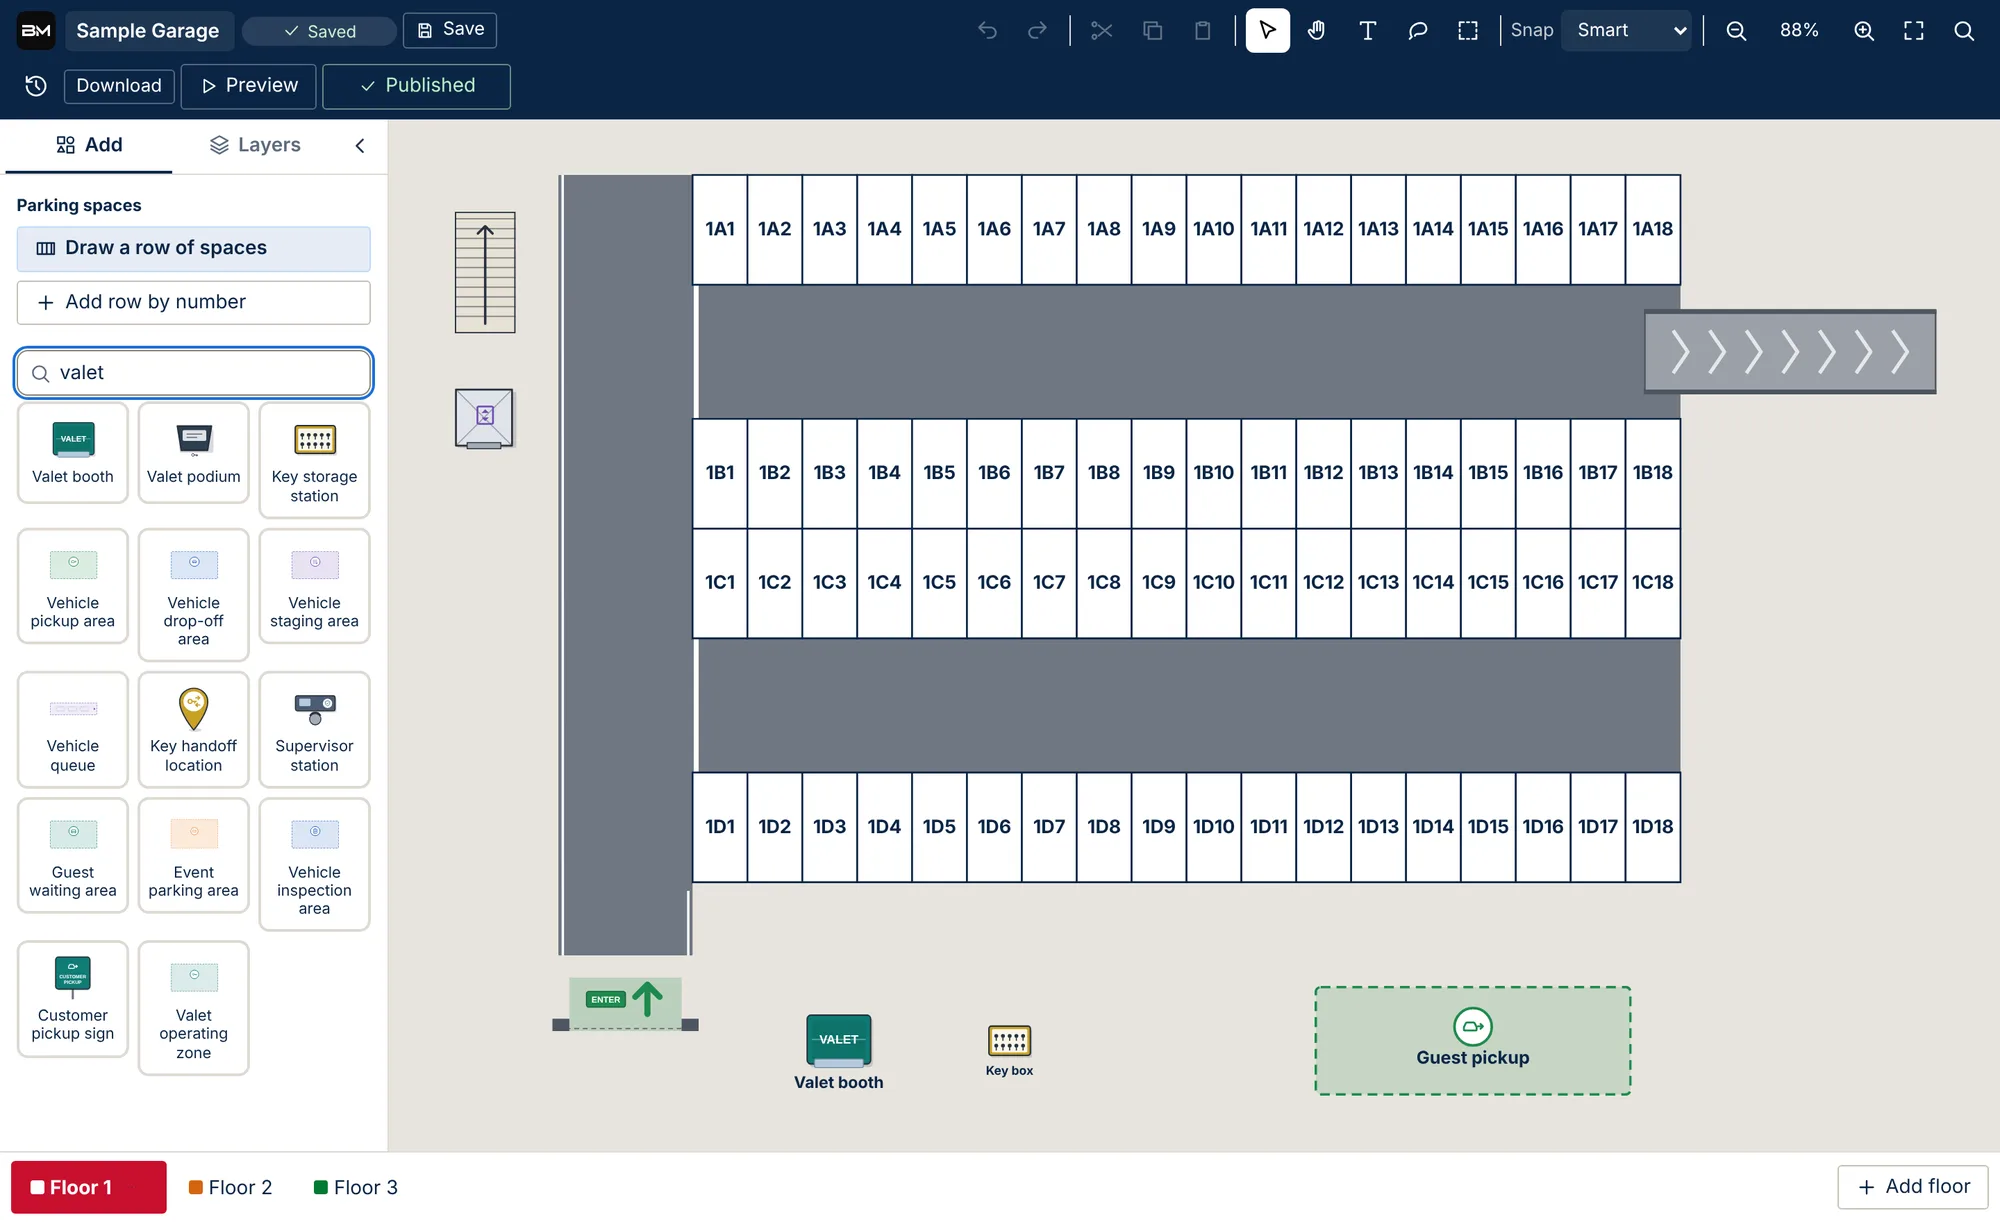
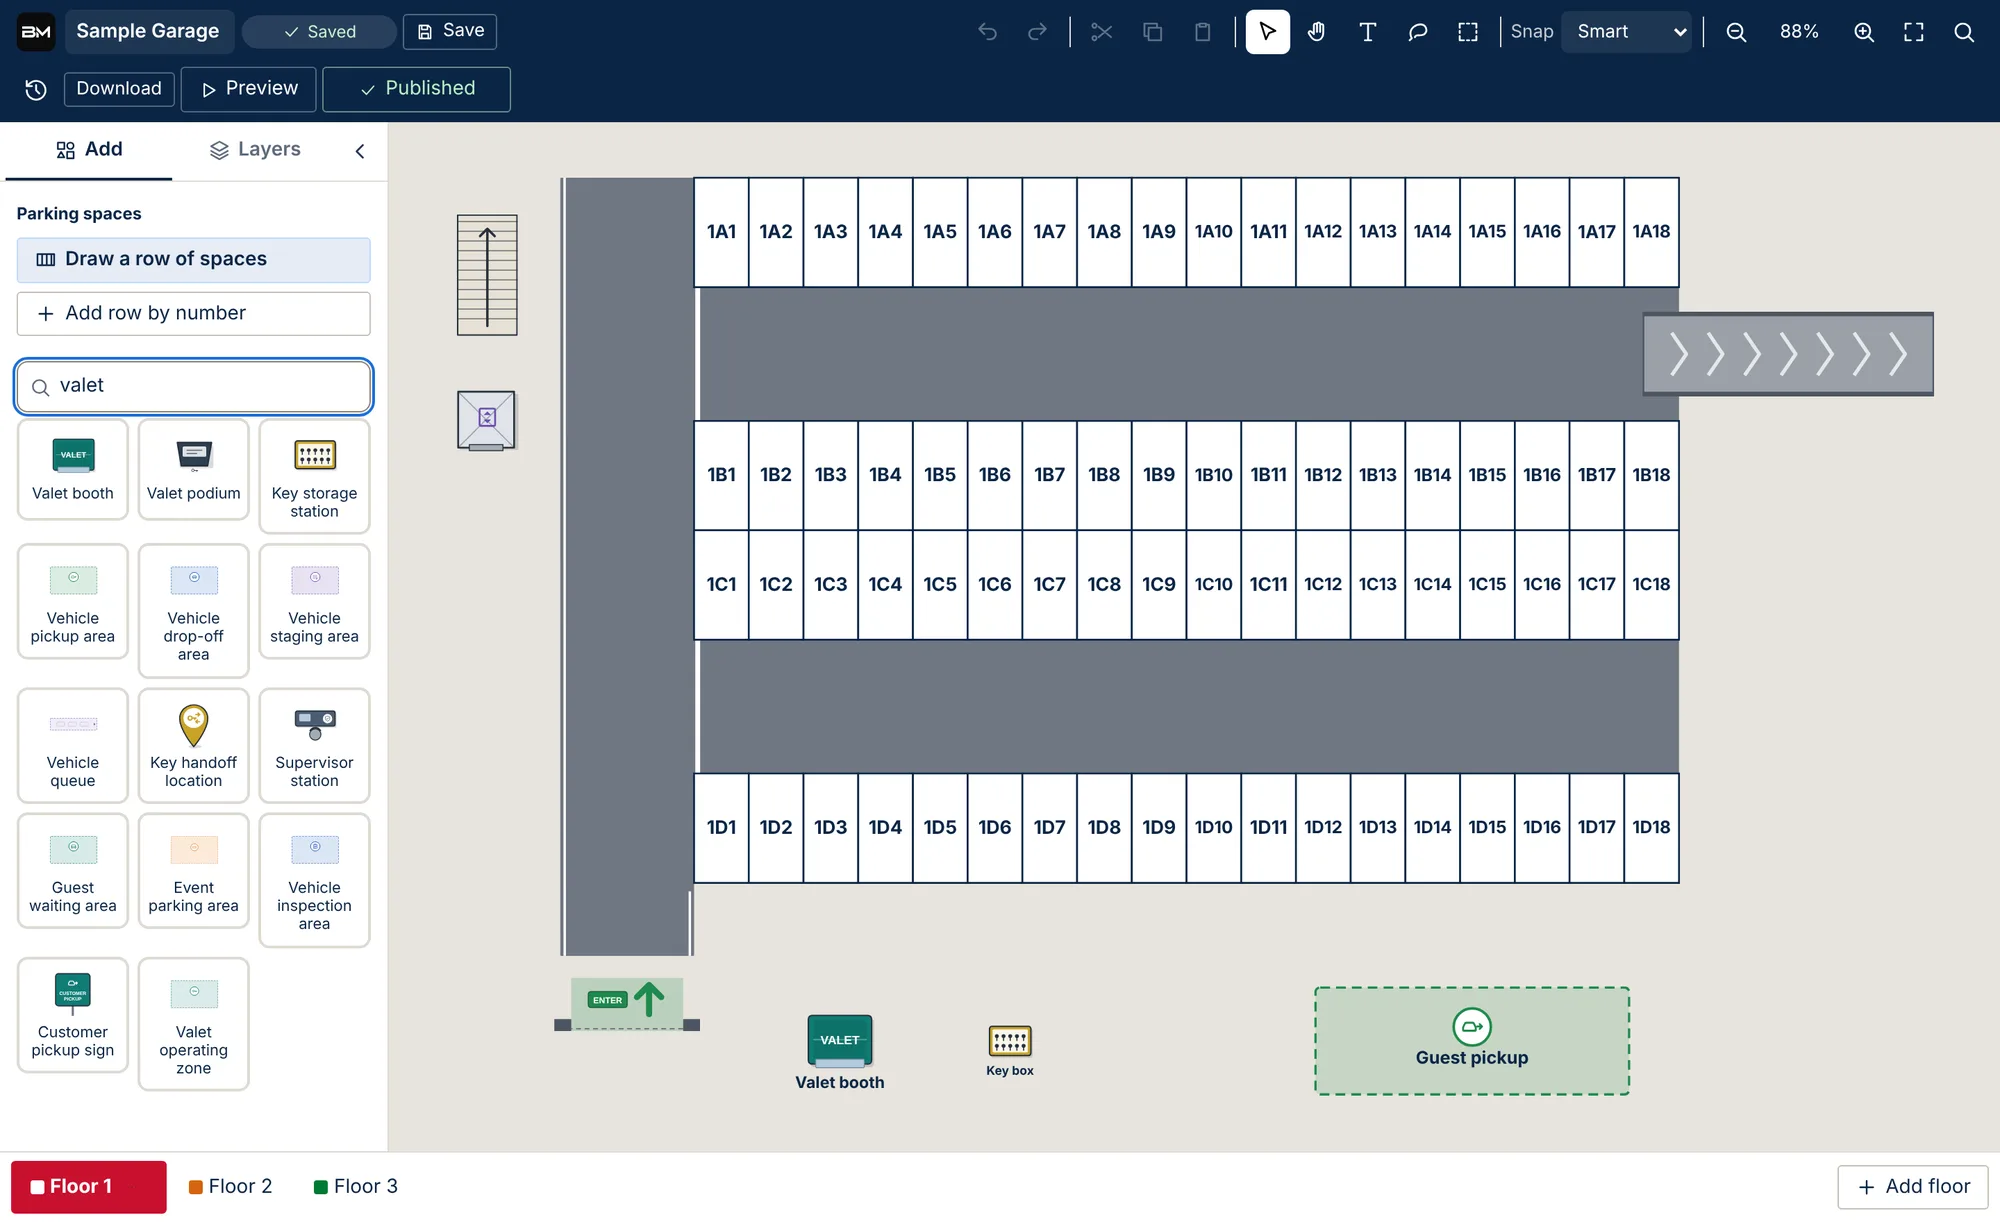
Keep space numbers clear of their lines on the map (#95)
* One font family everywhere, and a typography rule

The app and marketing site used five families (Archivo, IBM Plex Mono,
Barlow Condensed, IBM Plex Sans, Inter/Overpass) and small monospace
uppercase letter-spaced labels, which read as AI-made. Now:

- Overpass everywhere: app (all themes), map labels, printed QR signs and
  viewer prints, the marketing site and its product demo.
- Weights 400/600/700 only; app sizes come from --fs-* tokens.
- Labels are sentence case and semibold, not mono uppercase eyebrows.
- Themes change colour only, never type.
- Site wordmark is the traced logo SVG instead of Barlow Condensed text.
- Dropped Archivo, Barlow, Plex Mono and the two unused fontsource packages.
- docs/TYPOGRAPHY.md + CLAUDE.md state the rule; src/typography.test.ts
  enforces it.

Claude-Session: https://claude.ai/code/session_01YHagmPHXExEZCsCZswu9ri

* Drop system-ui from the font fallbacks; WebKit click tests timed out with it

Claude-Session: https://claude.ai/code/session_01YHagmPHXExEZCsCZswu9ri

* Remove the 01-05 index numbers from the industry cards; guard against them

Claude-Session: https://claude.ai/code/session_01YHagmPHXExEZCsCZswu9ri

* Use the device's own UI font instead of Overpass, with no web fonts

San Francisco on Apple, Segoe UI on Windows, Roboto/Noto on Android: the
stack GitHub, Stripe, Shopify and Atlassian use. Removes every font file
and @fontsource; the typography test now forbids web fonts.
[…]

diff --git a/src/render/fitLabel.ts b/src/render/fitLabel.ts
@@ -1,11 +1,42 @@
+import { MAP_FONT } from '../theme';
+
 /**
  * Fits a label into a box: shrink to fit on one line, or break it onto two
- * lines ("F6" over "116") when that lets it stay larger. Character width is
- * estimated from the font size, which is close enough for bold sans labels.
+ * lines ("F6" over "116") when that lets it stay larger. The text is measured
+ * in the device's own bold UI font, and it keeps an inner margin so a number
+ * never touches the lines of its space.
  */
-const CHAR_W = 0.62;
+const CHAR_W = 0.68; // fallback when there is no canvas to measure with (unit tests)
 const LINE_H = 1.1;
 const MIN_SIZE = 6;
+/** Share of the box a label may use: about 15% clear on each side, 10% top and bottom. */
+const FILL_W = 0.7;
+const FILL_H = 0.8;
+
+const FONT = `bold 100px ${MAP_FONT}`;
+let ctx: CanvasRenderingContext2D | null | undefined;
+const widths = new Map<string, number>();
+/** Width of `text` in em (at font size 1), bold, in the map font. */
+export function emWidth(text: string): number {
+  const hit = widths.get(text);
+  if (hit !== undefined) return hit;
+  if (ctx === undefined) {
+    try {
+      ctx = typeof document !== 'undefined' ? document.createElement('canvas').getContext('2d') : null;
+      if (ctx) ctx.font = FONT; // set once: resolving a font list is slow in Safari
+    } catch {
+      ctx = null;
+    }
+  }
+  let w = text.length * CHAR_W;
+  if (ctx) {
+    const m = ctx.measureText(text).width / 100;
+    if (m > 0) w = m;
+  }
+  if (widths.size > 5000) widths.clear();
+  widths.set(text, w);
+  return w;
+}
 
 export interface FittedLabel {
   lines: string[];
@@ -24,12 +55,14 @@ export function splitLabel(text: string): [string, string] | null {
 
 export function fitLabel(text: string, maxSize: number, availW: number, availH: number): FittedLabel {
   const t = text.trim();
-  const one = Math.min(maxSize, (availW * 0.9) / Math.max(1, t.length * CHAR_W), (availH * 0.9) / LINE_H);
+  const roomW = availW * FILL_W;
+  const roomH = availH * FILL_H;
+  const one = Math.min(maxSize, roomW / Math.max(CHAR_W, emWidth(t)), roomH / LINE_H);
   let best: FittedLabel = { lines: [t], size: one };
   const split = splitLabel(t);
   if (split && one < maxSize) {
-    const longest = Math.max(split[0].length, split[1].length);
-    const two = Math.min(maxSize, (availW * 0.9) / Math.max(1, longest * CHAR_W), (availH * 0.9) / (2 * LINE_H));
+    const longest = Math.max(emWidth(split[0]), emWidth(split[1]), CHAR_W);
+    const two = Math.min(maxSize, roomW / longest, roomH / (2 * LINE_H));
     if (two > one * 1.15) best = { lines: split, size: two };
   }
   best.size = Math.max(MIN_SIZE, best.size);

diff --git a/src/styles.css b/src/styles.css
@@ -389,6 +389,7 @@ label.check { flex-direction: row !important; align-items: center; gap: 8px; fon
 .viewer-header { display: flex; align-items: center; gap: 8px; padding: 8px 8px 4px; }
 .viewer-header .titles { flex: 1; display: flex; flex-direction: column; gap: var(--stack-gap); min-width: 0; }
 .viewer-header .titles h1 { font-size: var(--fs-xl); font-weight: var(--fw-bold); line-height: var(--lh-tight); overflow: hidden; text-overflow: ellipsis; white-space: nowrap; }
+.viewer-header .titles > span { line-height: var(--lh-tight); overflow: hidden; text-overflow: ellipsis; white-space: nowrap; }
 .viewer-search { position: relative; margin: 4px 12px 8px; display: flex; align-items: center; gap: 8px; border: 1px solid var(--field-border); border-radius: 8px; padding: 0 12px; color: var(--muted); background: var(--panel); }
 .viewer-search input { flex: 1; border: 0 !important; padding: 11px 0 !important; font-size: var(--fs-lg); outline: none; background: transparent !important; color: var(--text); }
 .results { position: absolute; top: calc(100% + 4px); left: 0; right: 0; list-style: none; margin: 0; padding: 4px; background: var(--panel); border: 1px solid var(--border); border-radius: 12px; box-shadow: 0 12px 30px rgba(0,0,0,0.15); z-index: 20; max-height: 50vh; overflow: auto; }

diff --git a/e2e/viewer.mobile.spec.ts b/e2e/viewer.mobile.spec.ts
@@ -60,7 +60,7 @@ test('tapping a space highlights it, search outlines matches, closing the card c
     const K = (window as unknown as { Konva: { stages: { findOne: (s: string) => { getClientRect: () => { x: number; y: number; width: number; height: number } } | undefined; container: () => HTMLElement }[] } }).Konva;
     const st = K.stages[0];
     const g = (st as unknown as { find: (s: string) => { getClientRect: () => { x: number; y: number; width: number; height: number }; findOne: (s: string) => { text: () => string } | undefined }[] })
-      .find('.obj').find((n) => n.findOne('Text')?.text() === '3');
+      .find('.obj').find((n) => n.findOne('Text')?.text().replace(/\n/g, '') === '3');
     const r = g!.getClientRect();
     const b = st.container().getBoundingClientRect();
     return { x: b.left + r.x + r.width / 2, y: b.top + r.y + r.height / 2 };

diff --git a/e2e/directions.spec.ts b/e2e/directions.spec.ts
@@ -53,7 +53,7 @@ test('start by tapping the map: a spot in the aisle, with a real mouse click', a
   const pt = await page.evaluate(async () => {
     type N = { findOne: (s: string) => { text: () => string } | undefined; getClientRect: () => { x: number; y: number; width: number; height: number } };
     const st = (window as unknown as { Konva: { stages: { find: (s: string) => N[]; container: () => HTMLElement }[] } }).Konva.stages[0];
-    const g = st.find('.obj').find((n) => n.findOne('Text')?.text() === '1A12')!;
+    const g = st.find('.obj').find((n) => n.findOne('Text')?.text().replace(/\n/g, '') === '1A12')!;
     const r = g.getClientRect();
     const b = st.container().getBoundingClientRect();
     return { x: b.left + r.x + r.width / 2, y: b.top + r.y + r.height * 1.6 };

diff --git a/e2e/pointer-helpers.ts b/e2e/pointer-helpers.ts
@@ -20,7 +20,7 @@ export function spaceBox(page: Page, label: string): Promise<ScreenBox | null> {
   return page.evaluate((label) => {
     type N = { getClientRect: () => { x: number; y: number; width: number; height: number }; findOne: (s: string) => { text: () => string } | undefined };
     const st = (window as unknown as { Konva: { stages: { find: (s: string) => N[]; container: () => HTMLElement }[] } }).Konva.stages[0];
-    const g = st.find('.obj').find((n) => n.findOne('Text')?.text() === label);
+    const g = st.find('.obj').find((n) => n.findOne('Text')?.text().replace(/\n/g, '') === label);
     if (!g) return null;
     const r = g.getClientRect();
     const b = st.container().getBoundingClientRect();

diff --git a/e2e/workflow.spec.ts b/e2e/workflow.spec.ts
@@ -20,7 +20,7 @@ async function viewerSpot(page: Page, text: string) {
   return page.evaluate((t) => {
     type N = { getClientRect: () => { x: number; y: number; width: number; height: number }; findOne: (s: string) => { text: () => string } | undefined };
     const st = (window as unknown as { Konva: { stages: { find: (s: string) => N[]; container: () => HTMLElement }[] } }).Konva.stages[0];
-    const g = st.find('.obj').find((n) => n.findOne('Text')?.text() === t);
+    const g = st.find('.obj').find((n) => n.findOne('Text')?.text().replace(/\n/g, '') === t);
     if (!g) return null;
     const r = g.getClientRect();
     const b = st.container().getBoundingClientRect();

diff --git a/e2e/viewer-select.spec.ts b/e2e/viewer-select.spec.ts
@@ -19,7 +19,7 @@ test('clicking a space with a mouse opens its card and highlights it', async ({ 
   await expect.poll(() => page.evaluate(`(${stage})().find('.obj').length`)).toBeGreaterThan(0);
   const where = () => page.evaluate(() => {
     const st = (window as unknown as { Konva: { stages: St[] } }).Konva.stages[0];
-    const g = st.find('.obj').find((n) => n.findOne('Text')?.text() === 'B4')!;
+    const g = st.find('.obj').find((n) => n.findOne('Text')?.text().replace(/\n/g, '') === 'B4')!;
     const r = g.getClientRect();
     const b = st.container().getBoundingClientRect();
     return { x: b.left + r.x + r.width / 2, y: b.top + r.y + r.height / 2 };

diff --git a/src/assets/library.test.ts b/src/assets/library.test.ts
@@ -86,6 +86,13 @@ describe('space number fitting', () => {
     expect(f.size * 0.62 * 3).toBeLessThanOrEqual(44);
   });
 
+  it('leaves a margin inside the space instead of filling it edge to edge', () => {
+    // A warehouse rack "D-09" in a 70-wide bay: the number keeps clear of both lines.
+    const f = fitLabel('D-09', 40, 70, 60);
+    expect(f.lines).toEqual(['D-09']);
+    expect(f.size * 0.68 * 4).toBeLessThanOrEqual(70 * 0.75);
+  });
+
   it('keeps short numbers on one line at full size', () => {
     expect(fitLabel('12', 15, 45, 90)).toEqual({ lines: ['12'], size: 15 });
   });
